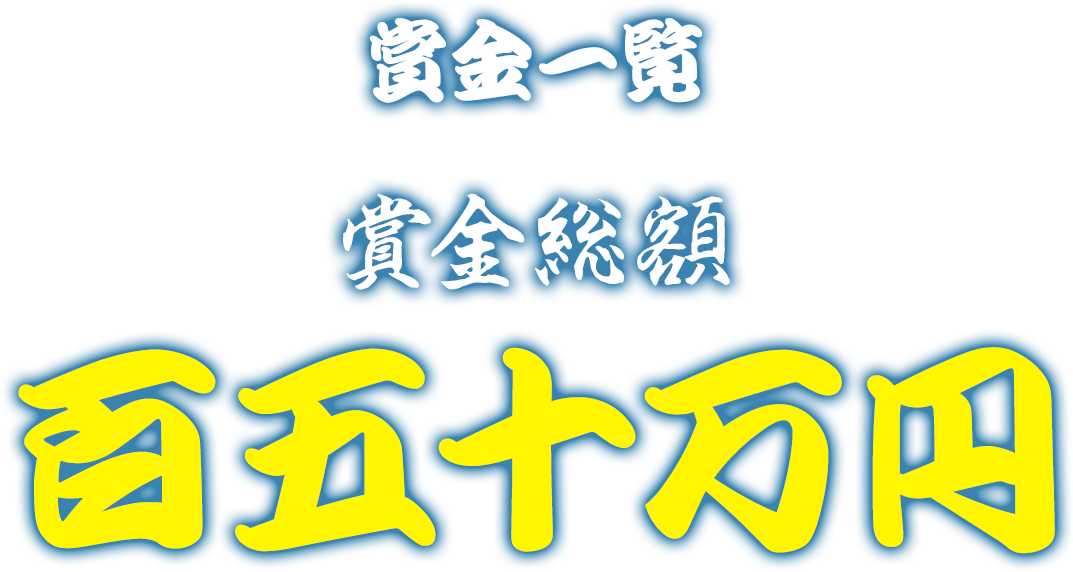
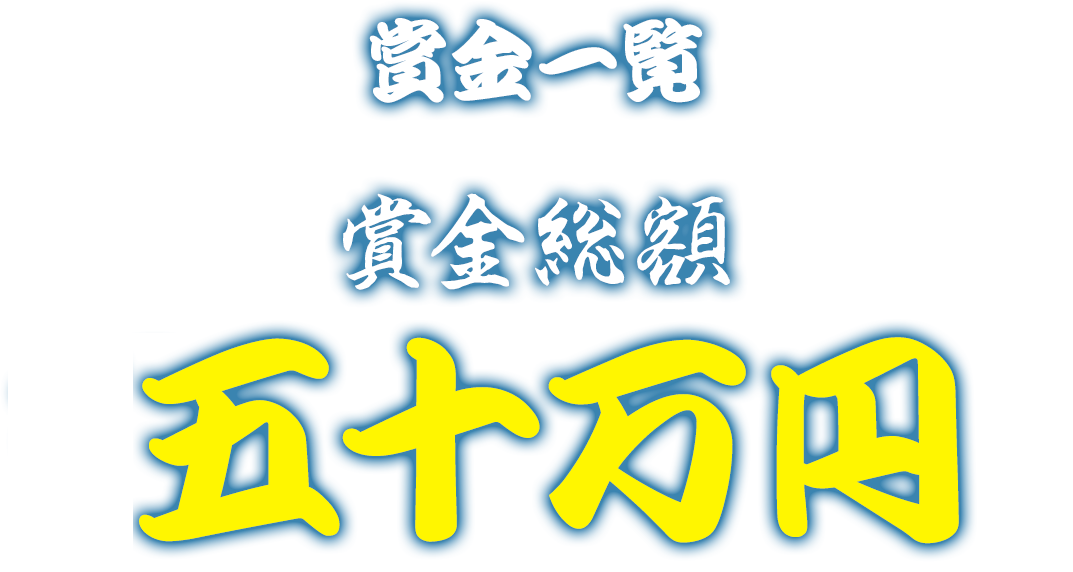
update for 5th event

Changed region(s): [[0.0, 0.5647, 1.0, 1.0]]

diff --git a/docs/index.html b/docs/index.html
@@ -74,14 +74,14 @@ height="0" width="0" style="display:none;visibility:hidden"></iframe></noscript>
             <div class="ev_kv_comment">
               <h2>第5回　#マンホール聖戦<br class="sp">〜全国出陣祭〜2022</h2>
               <p>
-                2022年1月22日(土)〜1月30日(日)<br class="sp">の情報については全てメールまたは<a class="gblink_bk" target="_blank"  href="https://twitter.com/Guardians__City">Twitter</a>等で告知いたします。<br>
+                イベントの最新情報については全てメールまたは<a class="gblink_bk" target="_blank"  href="https://twitter.com/Guardians__City">Twitter</a>等で告知いたします。<br>
                 フォローよろしくお願いいたします。
               </p>
             </div>
 						<picture>
-							<source media="(min-width: 769px)" srcset="./assets/img/kv_bg_z.jpg" />
+							<source media="(min-width: 769px)" srcset="./assets/img/kv_bg_z.png" />
 							<source media="(max-width: 768px)" srcset="./assets/img/kv_bg_sp_z.jpg" />
-							<img src="./assets/img/kv_bg_z.jpg" alt="第4回#マンホール聖戦「全国出陣祭り」" class="kv_bg">
+							<img src="./assets/img/kv_bg_z.png" alt="第5回#マンホール聖戦「全国出陣祭り」" class="kv_bg">
 						</picture>
 					</div>		
 				</header>
@@ -490,7 +490,7 @@ height="0" width="0" style="display:none;visibility:hidden"></iframe></noscript>
 				</section>
 
 
-				<section class="section" id="ev_mission">
+				<!-- <section class="section" id="ev_mission">
 					<div class="inner">
 						<h1>
 							<picture>
@@ -502,11 +502,7 @@ height="0" width="0" style="display:none;visibility:hidden"></iframe></noscript>
 
 
 						<p class="date">開催期間中、毎日更新予定</p>
-						<!-- <p class="comp_cap">コンプ区域</p>
-						<div class="comp">
-							<span class="c1">6</span>
-							<span class="c2">23</span>
-						</div> -->
+
 						<div class="comp_num">
 							<picture>
 								<source media="(min-width: 769px)" srcset="./assets/img/ev_mission_toppa_1213.png" />
@@ -704,7 +700,7 @@ height="0" width="0" style="display:none;visibility:hidden"></iframe></noscript>
 
 					</div>
 
-				</section>
+				</section> -->
 				
 
 
@@ -717,7 +713,7 @@ height="0" width="0" style="display:none;visibility:hidden"></iframe></noscript>
 						<picture>
 							<source media="(min-width: 769px)" srcset="./assets/img/ev_bounty_title_2.png" />
 							<source media="(max-width: 768px)" srcset="./assets/img/ev_bounty_title_2_sp.png" />
-							<img src="./assets/img/ev_bounty_title.png" alt="賞金一覧 追加総額百五十万円" class="">
+							<img src="./assets/img/ev_bounty_title.png" alt="賞金一覧 追加総額五十万円" class="">
 						</picture>
 					</h1>
 					<div class="ev_bounty_textbox">
@@ -728,8 +724,23 @@ height="0" width="0" style="display:none;visibility:hidden"></iframe></noscript>
 					</div>
 
 					<div class="ev_bounty_zenkoku_list">
+
 						<ul>
 							<li>
+								<picture>
+									<source media="(min-width: 769px)" srcset="./assets/img/syokin1.png" />
+									<source media="(max-width: 768px)" srcset="./assets/img/syokin1.png" />
+									<img src="./assets/img/syokin1.png" alt="賞金一覧" class="">
+								</picture>
+							</li>
+							<li>
+								<picture>
+									<source media="(min-width: 769px)" srcset="./assets/img/syokin2.png" />
+									<source media="(max-width: 768px)" srcset="./assets/img/syokin2.png" />
+									<img src="./assets/img/syokin2.png" alt="賞金一覧　初陣賞" class="">
+								</picture>
+							</li>
+							<!-- <li>
 								<picture>
 									<source media="(min-width: 769px)" srcset="./assets/img/ev_bounty_zenkoku_ct_1.png" />
 									<source media="(max-width: 768px)" srcset="./assets/img/ev_bounty_zenkoku_ct_1_sp.png" />
@@ -768,8 +779,8 @@ height="0" width="0" style="display:none;visibility:hidden"></iframe></noscript>
 								<p class="ev_caption">
 									※週間の賞は、いずれも土曜日のスタートから金曜日までの集計となります。（ただし最終週だけは9日間の集計となります）
 								</p>
-							</li>
-						</ul>
+							</li> -->
+						</ul> 
 					</div>
 
 
